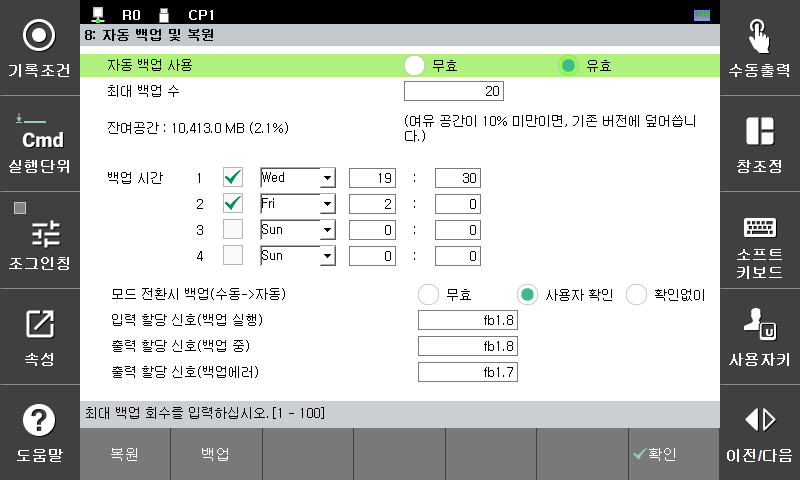
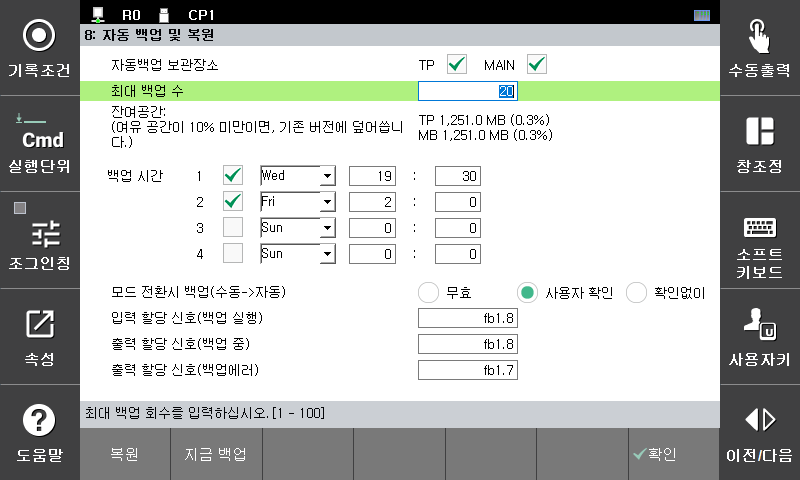
[HIXM-2187] hi6 자동백업기능 ; tp에도 백업되도록 사양 조정

diff --git a/book.md b/book.md
@@ -37,7 +37,7 @@
 
 ![그림. 자동 백업 및 복원 화면](<../_assets/auto-backup.png>)
 
-`[F2: 백업]` 버튼을 누르면, 설정에 관계없이 즉시 백업이 수행됩니다.
+`[F2: 지금 백업]` 버튼을 누르면, 설정에 관계없이 즉시 백업이 수행됩니다. (자동백업 보관장소 만은 현재 저장된 설정을 따릅니다.)
 
 화면의 항목들을 설정한 후 `[확인]` 버튼을 누르면, 설정값들이 저장/적용됩니다. 각 항목의 의미는 다음 표와 같습니다.
 
@@ -64,11 +64,11 @@ td {border-color:gray;border-style:solid;border-width:1px;}
 <tbody>
 	<tr>
 		<td>
-			자동 백업 사용
+			자동백업 보관장소
 		</td>
 		<td colspan="2">
-			무효: 자동 백업 기능을 끄기
-			유효: 자동 백업 기능을 켜기
+			TP: 티치펜던트의 저장장치(storage)에 백업할 지 여부.<br>
+			MAIN: 메인모듈(COM)의 스토리지에 백업할 지 여부.
 		</td>
 		<td>
 			-
@@ -79,7 +79,7 @@ td {border-color:gray;border-style:solid;border-width:1px;}
 			최대 백업 버전수
 		</td>
 		<td colspan="2">
-			최대 몇 개의 백업 지점을 관리할 것인지를 설정.<br /> 지정한 개수이상으로 백업이 수행될 때는 가장 오래된 백업 지점이 삭제됩니다.
+			최대 몇 개의 백업 지점을 관리할 것인지를 설정.<br/> 지정한 개수이상으로 백업이 수행될 때는 가장 오래된 백업 폴더들이 삭제됩니다.
 		</td>
 		<td>
 			1~100
@@ -90,7 +90,7 @@ td {border-color:gray;border-style:solid;border-width:1px;}
 			백업 시간
 		</td>
 		<td colspan="2">
-			매일 혹은 특정 요일의 특정 시간에 백업이 자동으로 수행되도록 설정합니다. 최대 4개의 스케줄을 입력할 수 있습니다. 사용하지 않는 스케줄은 미지정으로 선택하십시오.
+			매일 혹은 특정 요일의 특정 시간에 백업이 자동으로 수행되도록 설정합니다. 최대 4개의 스케줄을 입력할 수 있습니다. 사용하지 않는 스케줄은 체크를 끄십시오.
 		</td>
 		<td>
 			00:00
@@ -140,7 +140,7 @@ td {border-color:gray;border-style:solid;border-width:1px;}
 			(백업실행)
 		</td>
 		<td colspan="2">
-			지정한 입력신호가 켜지면, 백업을 실행합니다.
+			지정한 입력신호가 켜지는 순간, 백업을 실행합니다.
 		</td>
 		<td>
 			-
@@ -181,9 +181,6 @@ td {border-color:gray;border-style:solid;border-width:1px;}
 <thead>
 	<tr>
 		<th>
-			신호 종류
-		</th>
-		<th>
 			설정 예
 		</th>
 		<th>
@@ -194,25 +191,18 @@ td {border-color:gray;border-style:solid;border-width:1px;}
 <tbody>
 	<tr>
 		<td>
-			논리신호 (PLC ON시)
-			하드와이어드 신호 (PLC OFF시)
-		</td>
-		<td>
 			135
 		</td>
 		<td>
-			135 (135번 신호)
+			135 (do135, 혹은 di135)
 		</td>
 	</tr>
 	<tr>
 		<td>
-			필드버스
-		</td>
-		<td>
 			5.220
 		</td>
 		<td>
-			fb5.220 (fb5의 220번 신호)
+			fb5.220 (fb5의 do220, 혹은 di220)
 		</td>
 	</tr>
 </tbody>
@@ -222,11 +212,13 @@ td {border-color:gray;border-style:solid;border-width:1px;}
 
 백업 중엔 화면에 아래 그림과 같은 메시지박스가 나타납니다. 완료 메시지가 나올 때까지 조작을 멈추고 기다려주십시오.
 
-![](<../_assets/backup_st.png>)
+![](../_assets/backup_st.png)
 
-![그림. 자동백업 메시지박스](<../_assets/backup_en.png>)
+![](../_assets/backup_doing.png)
 
-백업되는 위치는 메인보드 내의 아래 경로입니다.
+![](../_assets/backup_en.png)
+
+백업되는 위치는 티치펜던트 혹은 메인 모듈 내의 아래 경로입니다.
 
 <style type="text/css">
 table  {border-collapse:collapse;}
@@ -237,7 +229,18 @@ td {border-color:gray;border-style:solid;border-width:1px;}
 <table>
 	<tr>
 		<td class='grayed'>
-			<p>경로명</p>
+			<p>경로명 - TP</p>
+		</td>
+		<td>
+			<p>/usr/share/hyundai/hi6/backup/ts/</p>
+		</td>
+		<td>
+			<p>파일관리자 화면에서 TP 항목 밑의 backup/ts/</p>
+		</td>
+	</tr>
+	<tr>
+		<td class='grayed'>
+			<p>경로명 - MAIN</p>
 		</td>
 		<td>
 			<p>/ata0:2/lib/hi6/backup/ts/</p>
@@ -274,8 +277,8 @@ td {border-color:gray;border-style:solid;border-width:1px;}
 
 리스트박스에 복원 가능한 지점들이 백업한 시점을 기준으로 정렬되어 나타납니다. 가장 아래에 위치한 항목이 가장 최근의 백업 지점입니다.
 
-* `[삭제]`: 항목을 선택한 후 누르면, 사용자의 확인을 받은 후 선택된 복원 지점을 삭제합니다.
-* `[복원]`: 복원할 항목을 선택한 후 누르면, 복원이 시작됩니다.
+* `[삭제]`: 삭제할 항목들을 선택한 후 누르면, 사용자의 확인을 받은 후 선택된 폴더들을 삭제합니다.
+* `[복원]`: 복원할 항목을 선택한 후 누르면, 사용자의 확인을 받은 후 복원이 시작됩니다.
 
 복원이 완료되면 아래 그림과 같은 메시지가 나타납니다. 전원을 재투입하면 정상적인 사용이 가능해집니다.
 

diff --git a/2-use-to-auto-backup/1-setting.md b/2-use-to-auto-backup/1-setting.md
@@ -4,7 +4,7 @@
 
 ![그림. 자동 백업 및 복원 화면](<../_assets/auto-backup.png>)
 
-`[F2: 백업]` 버튼을 누르면, 설정에 관계없이 즉시 백업이 수행됩니다.
+`[F2: 지금 백업]` 버튼을 누르면, 설정에 관계없이 즉시 백업이 수행됩니다. (자동백업 보관장소 만은 현재 저장된 설정을 따릅니다.)
 
 화면의 항목들을 설정한 후 `[확인]` 버튼을 누르면, 설정값들이 저장/적용됩니다. 각 항목의 의미는 다음 표와 같습니다.
 
@@ -31,11 +31,11 @@ td {border-color:gray;border-style:solid;border-width:1px;}
 <tbody>
 	<tr>
 		<td>
-			자동 백업 사용
+			자동백업 보관장소
 		</td>
 		<td colspan="2">
-			무효: 자동 백업 기능을 끄기
-			유효: 자동 백업 기능을 켜기
+			TP: 티치펜던트의 저장장치(storage)에 백업할 지 여부.<br>
+			MAIN: 메인모듈(COM)의 스토리지에 백업할 지 여부.
 		</td>
 		<td>
 			-
@@ -46,7 +46,7 @@ td {border-color:gray;border-style:solid;border-width:1px;}
 			최대 백업 버전수
 		</td>
 		<td colspan="2">
-			최대 몇 개의 백업 지점을 관리할 것인지를 설정.<br /> 지정한 개수이상으로 백업이 수행될 때는 가장 오래된 백업 지점이 삭제됩니다.
+			최대 몇 개의 백업 지점을 관리할 것인지를 설정.<br/> 지정한 개수이상으로 백업이 수행될 때는 가장 오래된 백업 폴더들이 삭제됩니다.
 		</td>
 		<td>
 			1~100
@@ -57,7 +57,7 @@ td {border-color:gray;border-style:solid;border-width:1px;}
 			백업 시간
 		</td>
 		<td colspan="2">
-			매일 혹은 특정 요일의 특정 시간에 백업이 자동으로 수행되도록 설정합니다. 최대 4개의 스케줄을 입력할 수 있습니다. 사용하지 않는 스케줄은 미지정으로 선택하십시오.
+			매일 혹은 특정 요일의 특정 시간에 백업이 자동으로 수행되도록 설정합니다. 최대 4개의 스케줄을 입력할 수 있습니다. 사용하지 않는 스케줄은 체크를 끄십시오.
 		</td>
 		<td>
 			00:00
@@ -107,7 +107,7 @@ td {border-color:gray;border-style:solid;border-width:1px;}
 			(백업실행)
 		</td>
 		<td colspan="2">
-			지정한 입력신호가 켜지면, 백업을 실행합니다.
+			지정한 입력신호가 켜지는 순간, 백업을 실행합니다.
 		</td>
 		<td>
 			-
@@ -148,9 +148,6 @@ td {border-color:gray;border-style:solid;border-width:1px;}
 <thead>
 	<tr>
 		<th>
-			신호 종류
-		</th>
-		<th>
 			설정 예
 		</th>
 		<th>
@@ -161,25 +158,18 @@ td {border-color:gray;border-style:solid;border-width:1px;}
 <tbody>
 	<tr>
 		<td>
-			논리신호 (PLC ON시)
-			하드와이어드 신호 (PLC OFF시)
-		</td>
-		<td>
 			135
 		</td>
 		<td>
-			135 (135번 신호)
+			135 (do135, 혹은 di135)
 		</td>
 	</tr>
 	<tr>
 		<td>
-			필드버스
-		</td>
-		<td>
 			5.220
 		</td>
 		<td>
-			fb5.220 (fb5의 220번 신호)
+			fb5.220 (fb5의 do220, 혹은 di220)
 		</td>
 	</tr>
 </tbody>

diff --git a/2-use-to-auto-backup/2-execute-auto-backup.md b/2-use-to-auto-backup/2-execute-auto-backup.md
@@ -4,11 +4,13 @@
 
 백업 중엔 화면에 아래 그림과 같은 메시지박스가 나타납니다. 완료 메시지가 나올 때까지 조작을 멈추고 기다려주십시오.
 
-![](<../_assets/backup_st.png>)
+![](../_assets/backup_st.png)
 
-![그림. 자동백업 메시지박스](<../_assets/backup_en.png>)
+![](../_assets/backup_doing.png)
 
-백업되는 위치는 메인보드 내의 아래 경로입니다.
+![](../_assets/backup_en.png)
+
+백업되는 위치는 티치펜던트 혹은 메인 모듈 내의 아래 경로입니다.
 
 <style type="text/css">
 table  {border-collapse:collapse;}
@@ -19,7 +21,18 @@ td {border-color:gray;border-style:solid;border-width:1px;}
 <table>
 	<tr>
 		<td class='grayed'>
-			<p>경로명</p>
+			<p>경로명 - TP</p>
+		</td>
+		<td>
+			<p>/usr/share/hyundai/hi6/backup/ts/</p>
+		</td>
+		<td>
+			<p>파일관리자 화면에서 TP 항목 밑의 backup/ts/</p>
+		</td>
+	</tr>
+	<tr>
+		<td class='grayed'>
+			<p>경로명 - MAIN</p>
 		</td>
 		<td>
 			<p>/ata0:2/lib/hi6/backup/ts/</p>

diff --git a/2-use-to-auto-backup/3-restoration.md b/2-use-to-auto-backup/3-restoration.md
@@ -8,8 +8,8 @@
 
 리스트박스에 복원 가능한 지점들이 백업한 시점을 기준으로 정렬되어 나타납니다. 가장 아래에 위치한 항목이 가장 최근의 백업 지점입니다.
 
-* `[삭제]`: 항목을 선택한 후 누르면, 사용자의 확인을 받은 후 선택된 복원 지점을 삭제합니다.
-* `[복원]`: 복원할 항목을 선택한 후 누르면, 복원이 시작됩니다.
+* `[삭제]`: 삭제할 항목들을 선택한 후 누르면, 사용자의 확인을 받은 후 선택된 폴더들을 삭제합니다.
+* `[복원]`: 복원할 항목을 선택한 후 누르면, 사용자의 확인을 받은 후 복원이 시작됩니다.
 
 복원이 완료되면 아래 그림과 같은 메시지가 나타납니다. 전원을 재투입하면 정상적인 사용이 가능해집니다.
 
